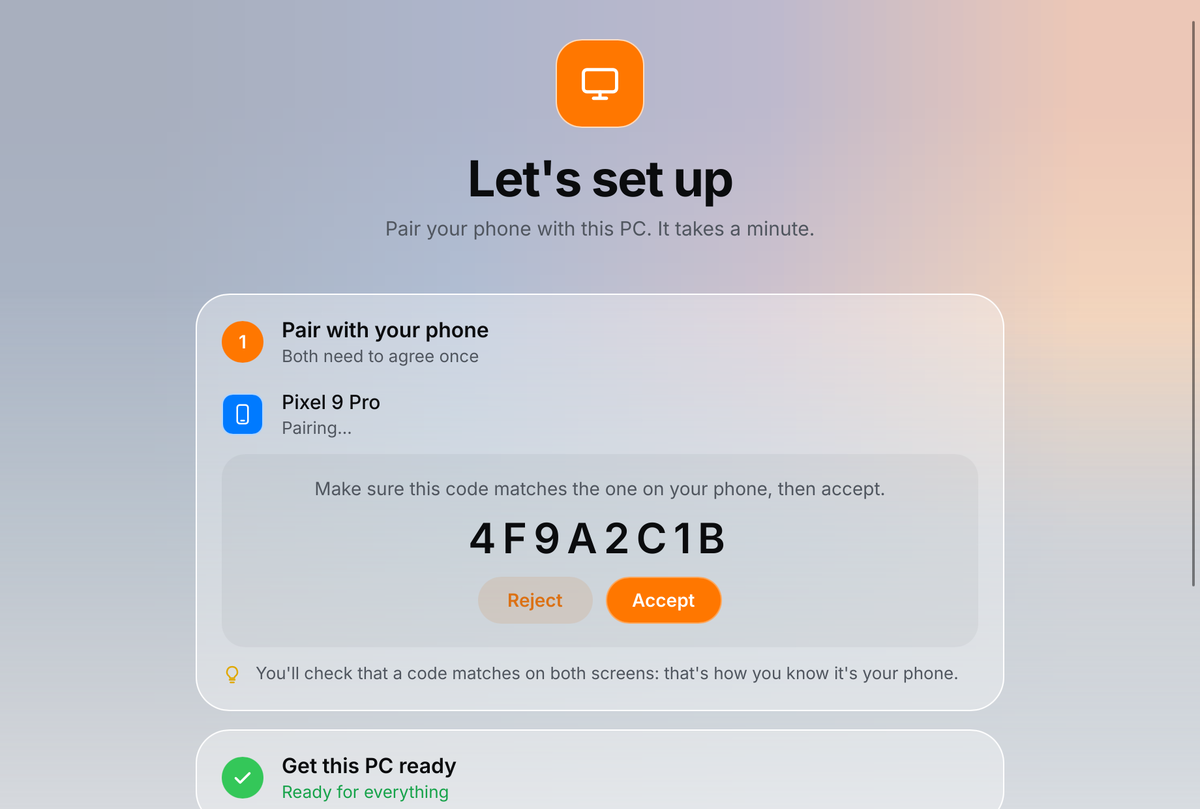
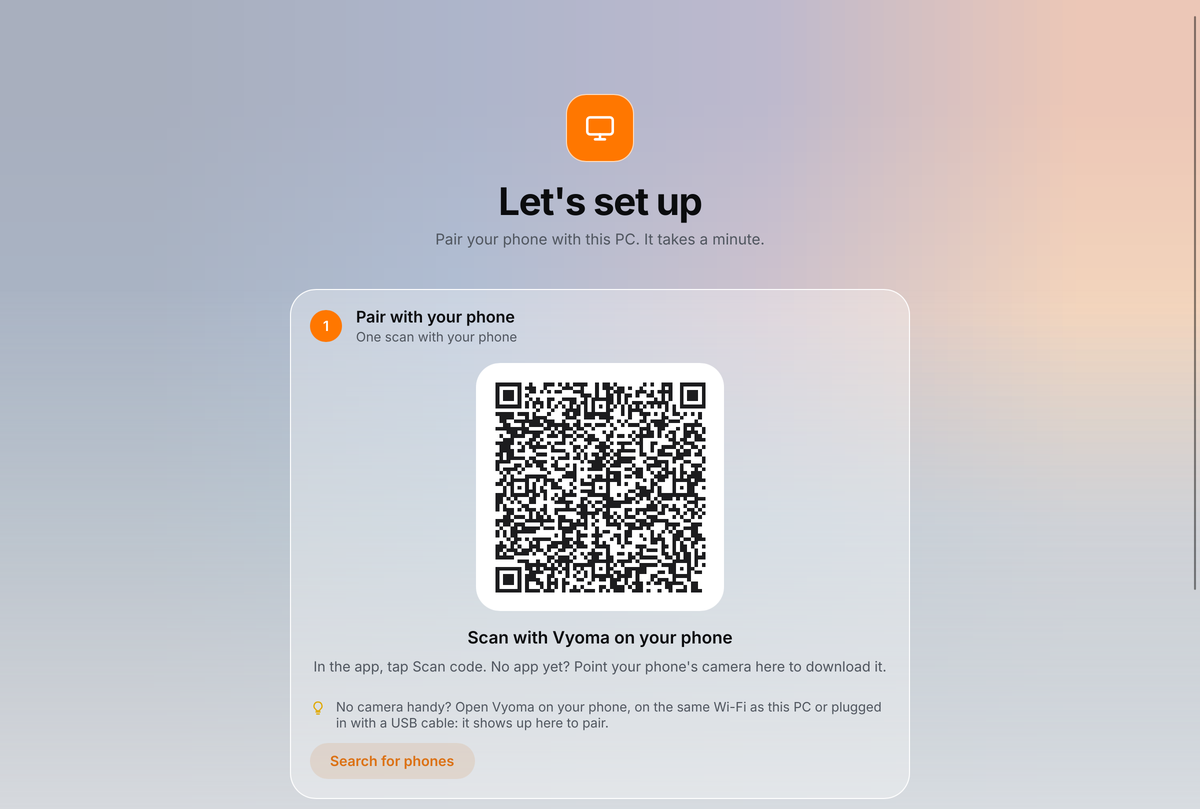
Say what Vyoma is: set up once, then it just works
README, the PC app's README, the feature list and the store listing now
lead with what sets Vyoma apart: one scan and it keeps working, no
developer switches left on (no root, no Shizuku, USB debugging only for
a one-time clipboard step), the fingerprint lock guarding the PC, and
security that needs no thought. The PC README installs with the one
line; the setup screenshot shows the code to scan.

diff --git a/README.md b/README.md
@@ -3,7 +3,7 @@
 <h1 align="center">Vyoma</h1>
 
 <p align="center"><b>Your Android phone and your Linux PC, working as one.</b><br>
-Files, clipboard, calls, notifications, screens and remote control, all over your own network.<br>
+Set it up once. After that it just works: no fiddling, no developer switches left on.<br>
 Open source. No account. No cloud.</p>
 
 <p align="center"><a href="https://github.com/Prajwaljb/VyomaConnect/releases/latest"><b>Download</b></a> ·
@@ -13,10 +13,46 @@ Open source. No account. No cloud.</p>
 
 <p align="center"><img src="docs/screenshots/desktop-phone.png" width="760" alt="Vyoma's PC window showing a connected phone: battery, connection, response time, and Send files, Phone files and Ring"></p>
 
-Vyoma is a phone app and a PC app built to work together. It speaks the KDE Connect protocol, so
-it moves into your desktop without losing a single pairing, then goes well beyond it: screen
-mirroring both ways, your phone as a webcam or game controller, resumable transfers over a USB
-cable, fingerprint-protected commands, and a PC window that shows exactly what each phone can do.
+Vyoma is a phone app and a PC app made as one product. Scan a code once and they belong together:
+from then on they find each other, pick the best way to connect and keep going, while your PC stays
+yours, behind your fingerprint.
+
+## Why Vyoma
+
+**Set up once, then forget about it.** Pairing is one scan of the code in the PC's window: nothing
+to type, nothing to compare. After that the phone and PC connect by themselves, every time. Wi-Fi
+at home, the USB cable the moment you plug it in, Bluetooth when there's no Wi-Fi: Vyoma picks the
+best route and switches on its own. The PC app updates itself with one click and keeps your
+pairings. And if they ever can't reach each other, the phone says why in plain words (not on
+Wi-Fi, a VPN in the way, the PC's firewall, Vyoma not running there) with the button that fixes it.
+
+**No developer switches left on.** Vyoma doesn't need root or Shizuku, and doesn't ask you to keep
+USB debugging on. Everything works over Wi-Fi without it, the cable works through USB tethering,
+and the game controller works over USB as a plain accessory. The one thing Android lets only a
+computer unlock, reading the clipboard while Vyoma is closed, is a one-time grant from your PC:
+plug in once, click Allow, and switch USB debugging off again. Copies keep syncing.
+
+**Your fingerprint guards your PC.** An unlocked phone in someone else's hand isn't a way into
+your PC. With the fingerprint lock on, unlocking the PC, opening its files, seeing its screen,
+using its camera, its power buttons, the touchpad, keyboard and presenter, and your clipboard
+history all ask for your fingerprint first, once per use, not at every tap. Commands that matter
+can ask every time, and that's set on the PC, so it can't be switched off from the phone.
+
+**Secure without thinking about it.** Phone and PC talk directly and encrypted, and each remembers
+the other's certificate from the moment they pair. The pairing code works once, for one phone, for
+ten minutes, and names the PC's certificate, so a phone can't be tricked into pairing with a
+different PC. The PC decides what each phone may do and keeps a log of what it did. Copies your
+password manager marks as private never leave the phone, and the PC always tells you when its
+camera was used.
+
+**Made with care.** One design across phone and PC, in your wallpaper's colours, light or dark,
+with motion and haptics that answer every touch. Widgets, Quick Settings tiles and lock-screen
+controls for what you use most. On the PC it fits into the desktop you already have: right-click
+any file and choose **Send to** your phone, find the phone in your file manager's sidebar, and see
+its calls and notifications in your desktop's own pop-ups.
+
+**Private by design.** No account, no server, no tracking. The only thing that goes online is the
+PC app's daily look for a new version on GitHub, which you can turn off.
 
 ## What you get
 
@@ -122,7 +158,7 @@ hides devices from each other. (Pointed at the code, a phone without Vyoma opens
 You can also pick your PC from the list and confirm a code matches on both screens. From then on
 they find each other automatically.
 
-<p align="center"><img src="docs/screenshots/desktop-setup.png" width="640" alt="The PC's setup: pairing, with the code to compare against the phone"></p>
+<p align="center"><img src="docs/screenshots/desktop-setup.png" width="640" alt="The PC's setup: the code to scan with Vyoma on the phone"></p>
 
 ## Good to know
 
@@ -130,17 +166,15 @@ they find each other automatically.
 essentials: files, clipboard, notifications, media, commands, touchpad and presenter. Vyoma's PC
 app unlocks everything else.
 
-**Clipboard in the background.** Android lets only the app on screen read the clipboard. Vyoma
-works around that: plug the phone into the PC once with USB debugging on and click **Allow** on the
-phone's page in Vyoma's window. After that, copies reach the PC even with Vyoma closed. When the
-app restarts, Android asks once for log access: tap **Allow one-time access**. The Clipboard page
-also has a Send button for a quick manual push.
+**Clipboard with Vyoma closed (optional).** Android lets only the app on screen read the
+clipboard, and only a computer can lift that. So it's a one-time step: plug the phone into the PC
+with USB debugging on and click **Allow** on the phone's page in Vyoma's window. Then turn USB
+debugging off again; copies keep reaching the PC with Vyoma closed. After Vyoma restarts or
+updates, Android asks once for log access: tap **Allow one-time access**. Without this step,
+clipboard sync works whenever Vyoma is open, and the Clipboard page has a Send button.
 
-**Private by design.** Your phone and PC talk directly, encrypted, over your own network, cable or
-Bluetooth. No account, no server. The only thing that goes online is the PC app's daily look for a
-new version on GitHub, which you can turn off on **This PC**. Pairing needs a matching code on both screens, the PC window
-decides what each phone may do, and the phone can ask for your fingerprint before it unlocks the
-PC, opens its files or shows its screen.
+**Controlling the phone from the PC** (its screen in a window on the PC, clicked and typed into)
+uses Android's accessibility service, asked for only when you first use it. Nothing else needs it.
 
 <p align="center"><img src="docs/screenshots/desktop-commands-dark.png" width="640" alt="The PC's Commands page in dark mode, with commands that ask for a fingerprint"></p>
 

diff --git a/docs/FEATURES.md b/docs/FEATURES.md
@@ -22,7 +22,8 @@ when the phone is paired with KDE Connect or GSConnect.</p>
 ## Clipboard
 
 - **Copy on one side, paste on the other**, text and links.
-- **Works with the phone app closed**, after a one-time USB setup from the PC window. *PC app*
+- **Works with the phone app closed**, after a one-time step from the PC window; USB debugging can go off again
+  afterwards. *PC app*
 - **Clipboard history** on the phone: tap any past copy to use it again.
 - **Respects sensitive copies:** passwords marked private by your password manager never leave the phone.
 - A **Send button**, Quick Settings tile and widget for a one-tap push.
@@ -91,15 +92,26 @@ When something happens, Vyoma does something for you.
 - **USB tethering**, with no USB debugging needed. *PC app*
 - **Bluetooth** when there's no Wi-Fi: notifications, controls, stats and the controller keep working. *PC app*
 - **By IP address or name**, for Tailscale and other VPNs.
-- **Connection checks** on the phone explain what's working and what to do when something isn't.
+- **Pair by scanning a code** in the PC's window: nothing to type or compare, and it works on Wi-Fi that hides
+  devices from each other. *PC app*
+- **When it can't connect, it says why:** not on Wi-Fi, a VPN in the way, a different network, Vyoma not running on
+  the PC, or the PC's firewall, each with the button that fixes it. The PC's window opens the firewall in one
+  click. *PC app for the firewall*
+- **Connection checks** on the phone show what each link is carrying right now.
+- **No USB debugging to leave on, no root, no Shizuku.** Wi-Fi, USB tethering and the controller's USB accessory
+  mode all work without it.
 - **Outdoor mode:** off Wi-Fi with no PC around, Vyoma rests and starts again when you're home.
 
 ## Privacy and security
 
 - **No account, no cloud.** Phone and PC talk directly, encrypted, over your own network, cable or Bluetooth.
-- **Pairing needs a matching code** on both screens, and each side remembers the other's certificate after that.
+- **Each side remembers the other's certificate** from pairing on, and refuses anyone else under that name.
+- **The pairing code works once,** for one phone, for ten minutes, and names the PC's certificate, so the phone
+  can't be tricked into pairing with another PC. Pairing from the list instead needs a matching code on both screens.
 - **Per-phone permissions on the PC:** choose what each phone may do, and see what it did on the Activity page. *PC app*
-- **Fingerprint lock** before the phone unlocks the PC, opens its files or shows its screen.
+- **Fingerprint lock:** unlocking the PC, its files, its screen, its camera and power buttons, the touchpad, keyboard
+  and presenter, and the clipboard history ask for your fingerprint (or PIN) first, once per use.
+- **Commands that ask every time,** set on the PC, so they can't be switched off from the phone.
 - **Sensitive clipboard copies stay on the phone.**
 - **The only thing that goes online** is the PC app's daily look for a new version, which you can turn off. *PC app*
 

diff --git a/desktop/daemon/README.md b/desktop/daemon/README.md
@@ -8,22 +8,27 @@ calls, media and commands. Its window shows your phones and lets you choose what
 
 ## Install
 
+Paste this into a terminal on the PC:
+
 ```sh
-git clone https://github.com/Prajwaljb/VyomaConnect && VyomaConnect/desktop/daemon/install.sh
+curl -fsSL https://github.com/Prajwaljb/VyomaConnect/releases/latest/download/install.sh | sh
 ```
 
-Install it before pairing: it's what Vyoma on your phone pairs with. When it's done, its window
-opens on the same setup steps as the phone, so you pair from both screens at once.
+No curl? `wget -qO- https://github.com/Prajwaljb/VyomaConnect/releases/latest/download/install.sh | sh`
 
-This builds it, installs it for your user with a menu entry ("Vyoma"), starts it at login, and
-takes over from KDE Connect, keeping its pairings. It asks for your password to install the
-packages it needs and to open the firewall for phones on Wi-Fi. Anything missing later shows on
-This PC in Vyoma's window, with an Install button.
+It downloads the ready-made build for your PC, checks it, adds Vyoma to your app menu, starts it at
+login and takes over from KDE Connect, keeping its pairings. Nothing is compiled. It asks for your
+password once, for the libraries it needs and to let phones through the firewall. Anything missing
+later shows on This PC in Vyoma's window, with an Install button.
 
-`install.sh --undo` gives the PC back to KDE Connect.
+Then open Vyoma's window: it shows a code. In Vyoma on your phone, tap **Scan code**, and they're
+paired, for good. They find each other by themselves from then on.
 
-## Clipboard sync when the phone app is closed
+Rather build it yourself? `git clone https://github.com/Prajwaljb/VyomaConnect && VyomaConnect/desktop/daemon/install.sh`
+does the same from source. `install.sh --undo` gives the PC back to KDE Connect.
 
-Android only lets a computer grant this. Plug the phone in once with USB debugging on, allow it on
-the phone, then click Allow on the phone's page in Vyoma's window (or in its notification). You
-can turn USB debugging off afterwards.
+## Clipboard sync when the phone app is closed (optional)
+
+Android lets only a computer grant this, once. Plug the phone in with USB debugging on, allow it on
+the phone, then click Allow on the phone's page in Vyoma's window (or in its notification). Then
+turn USB debugging off again: copies keep syncing. Nothing else in Vyoma needs USB debugging.
